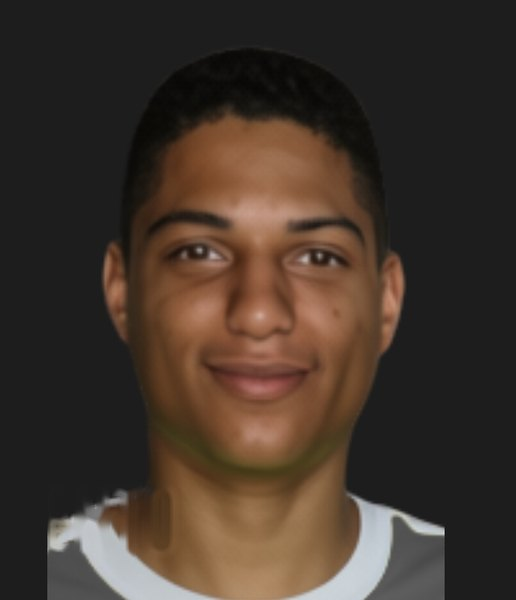
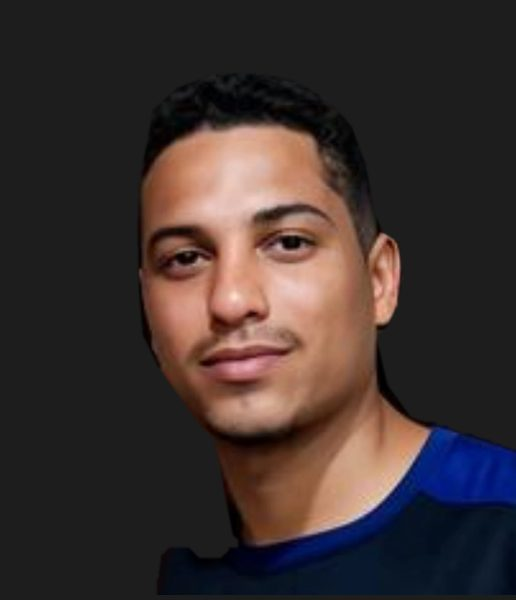
Renne André no Draft de novembro, nova foto do Gleysson e painel atualiza fotos
Claude-Session: https://claude.ai/code/session_012rykTvJ58FEA3s1aSBhZ2r

diff --git a/painel-sw.js b/painel-sw.js
@@ -1,5 +1,5 @@
 // Service worker do Painel Liga Neo SJ: abre mesmo sem internet (os dados ficam salvos no aparelho).
-const CACHE = 'painel-neo-v1';
+const CACHE = 'painel-neo-v2';
 const BASE = ['/painel/', '/painel/manifest.webmanifest', '/painel/icon-192.png', '/painel/icon-512.png', '/logo-liga.png', '/escudo-al-ec.png', '/escudo-al-fc.png'];
 self.addEventListener('install', e => { e.waitUntil(caches.open(CACHE).then(c => c.addAll(BASE)).catch(() => {})); self.skipWaiting(); });
 self.addEventListener('activate', e => { e.waitUntil(caches.keys().then(ks => Promise.all(ks.filter(k => k !== CACHE).map(k => caches.delete(k)))).then(() => self.clients.claim())); });
@@ -11,6 +11,7 @@ self.addEventListener('fetch', e => {
     return;
   }
   if (/\.(png|jpe?g|webp|svg)$/i.test(url.pathname)) {
-    e.respondWith(caches.match(req).then(h => h || fetch(req).then(r => { if (r.ok) { const c = r.clone(); caches.open(CACHE).then(k => k.put(req, c)); } return r; })));
+    // Mostra a foto salva na hora e busca a versão nova em segundo plano (fotos atualizadas aparecem no próximo acesso).
+    e.respondWith(caches.open(CACHE).then(k => k.match(req).then(h => { const f = fetch(req).then(r => { if (r.ok) k.put(req, r.clone()); return r; }).catch(() => h); return h || f; })));
   }
 });
